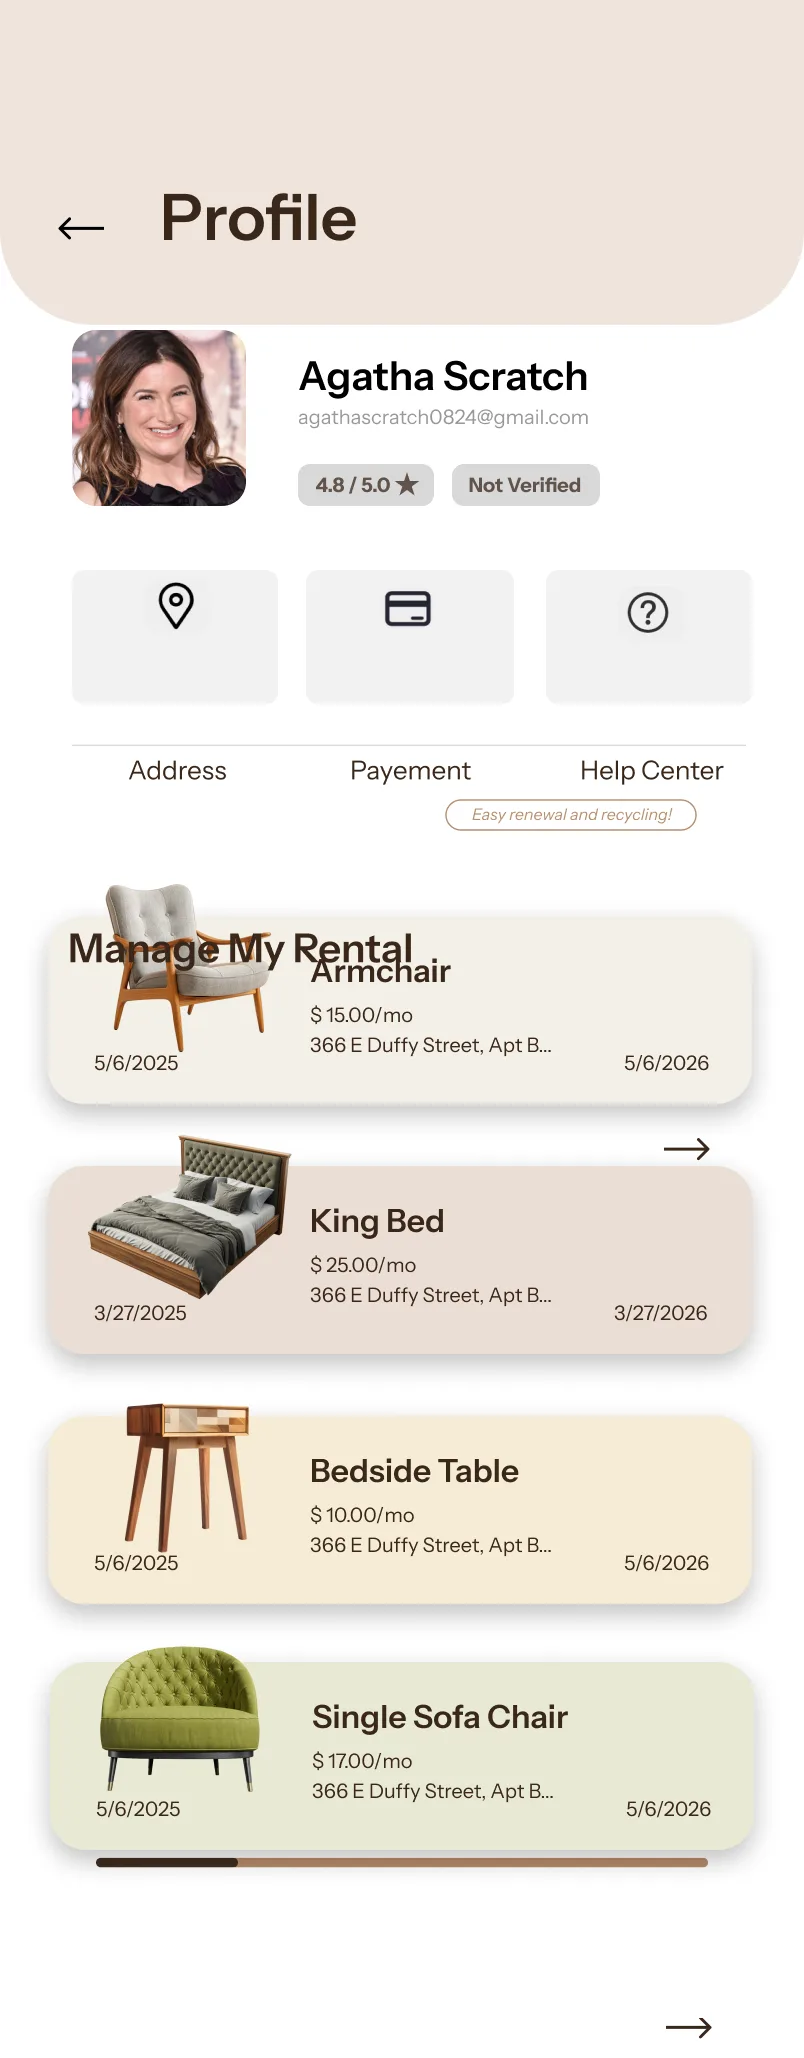
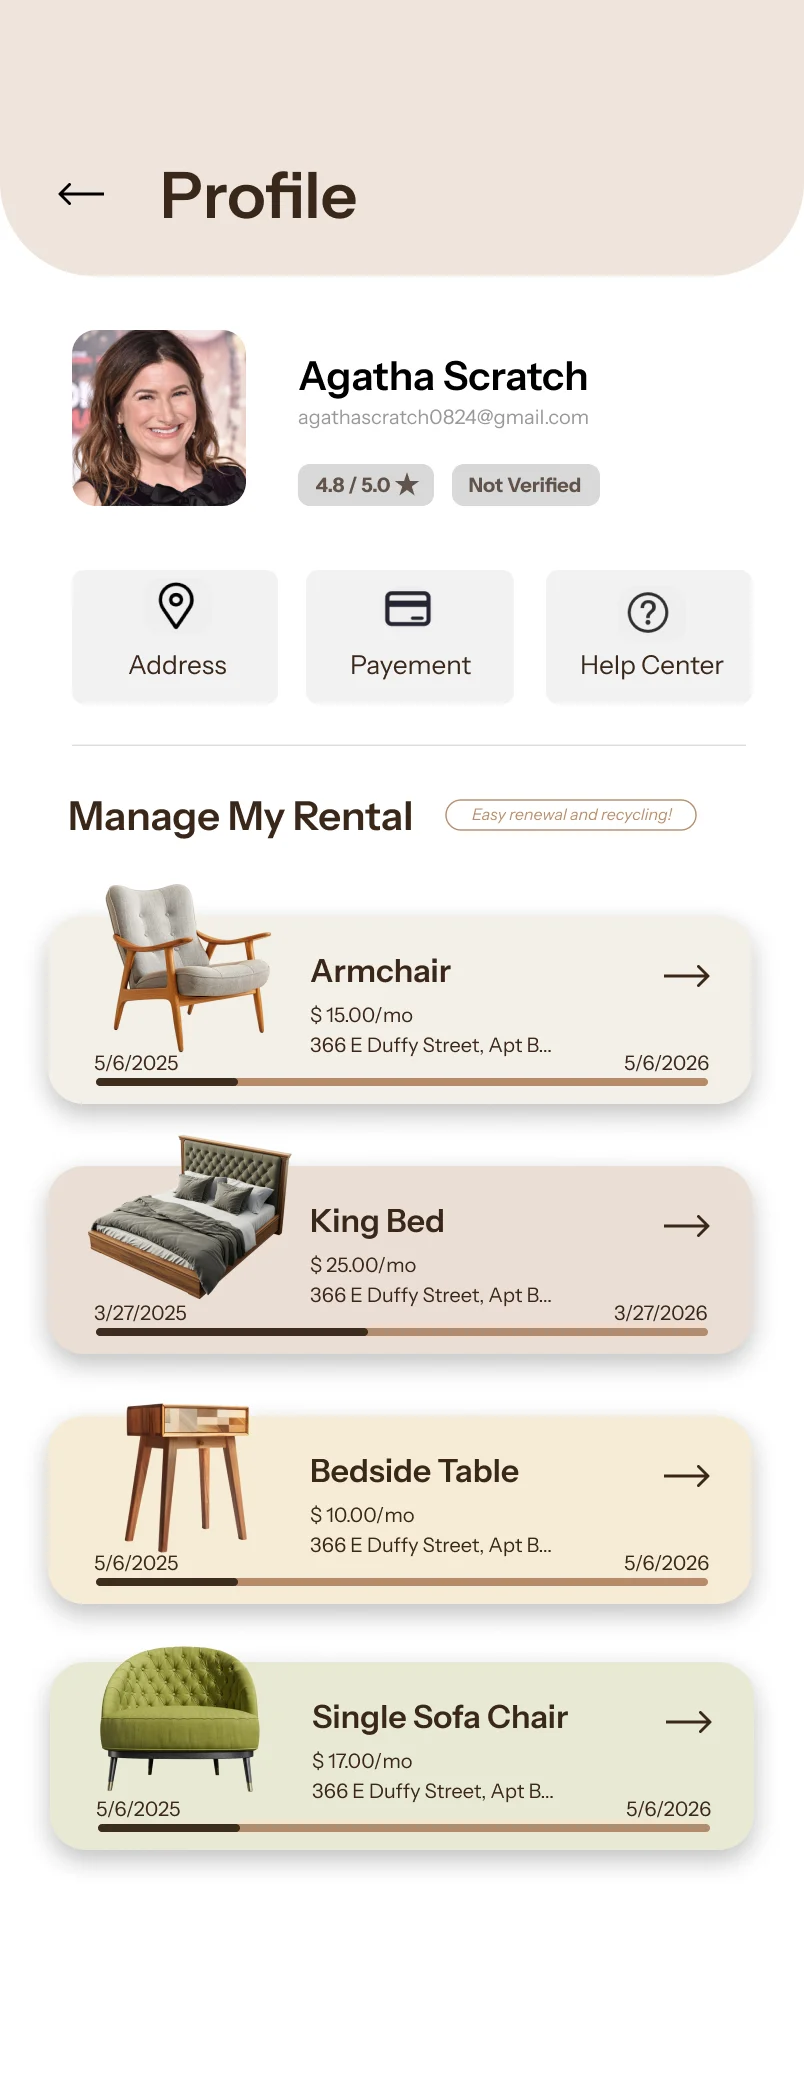
SwiftHome prototype polish: profile re-exported from Figma (fixes the heading overlapping the first rental, adds arrows and lease progress bars); motion pass: the page underneath dims as a new one slides over, list rows and product details rise in staggered, exported screens settle in, product hero 

diff --git a/assets/projects/swifthome/app/index.html b/assets/projects/swifthome/app/index.html
@@ -19,6 +19,11 @@
   .scr { position: absolute; inset: 0; overflow: hidden; background: #fff; pointer-events: none; visibility: hidden; transition: transform .42s cubic-bezier(.25,.8,.25,1), opacity .32s ease; }
   .scr.is-cur { pointer-events: auto; visibility: visible; z-index: 2; }
   .scr.is-prev { visibility: visible; z-index: 1; }
+  .scr::after { content: ""; position: absolute; inset: 0; background: rgba(28,18,10,.22); opacity: 0; pointer-events: none; transition: opacity .42s; z-index: 60; }
+  .scr.dim::after { opacity: 1; }
+  /* tactile press on everything tappable */
+  :is(.btn, .pill, .chip, .res, .cg, .cv-card, .totalbar, .save-bar, .thumb, .ar-btn, .back, .cv-card .go, .cbar-bag, .row-opt, .opt):active { scale: .965; }
+  .hs:active { background: rgba(255,255,255,.16); }
   .scr > .base { position: absolute; left: 0; top: 0; width: 402px; }
   .sc { position: absolute; overflow-x: hidden; overflow-y: auto; overscroll-behavior: contain; scrollbar-width: none; scroll-behavior: smooth; }
   .sc::-webkit-scrollbar, .pg::-webkit-scrollbar { display: none; }
@@ -186,6 +191,7 @@
   .item.gone { height: 0; margin-bottom: 0; opacity: 0; }
   .totalbar { position: absolute; left: 25px; top: 749px; width: 352px; height: 45px; border-radius: 10px; background: var(--bar); color: #fff; display: flex; align-items: center; z-index: 4; cursor: pointer; border: 0; }
   .totalbar b { flex: 1; text-align: center; font-size: 16px; font-weight: 600; }
+  .totalbar .tot { font-style: normal; font-variant-numeric: tabular-nums; }
   .totalbar i { width: 1px; height: 100%; background: rgba(255,255,255,.35); }
   .totalbar span { width: 72px; display: grid; place-items: center; }
   .item.cz .qty { top: auto; bottom: 14px; }
@@ -386,11 +392,11 @@ const SCREENS = {
     { x: 62, y: 808, w: 50, h: 46, tab: "explore" }, { x: 112, y: 808, w: 100, h: 46, tab: "cart" }, { x: 216, y: 808, w: 54, h: 46, tab: "favs" }, { x: 274, y: 808, w: 66, h: 46, tab: "profile" }] } },
   checkout: { base: S("checkout"), patch: "checkout", hs: [{ x: 14, y: 74, w: 54, h: 46, back: 1 }, { x: 288, y: 388, w: 74, h: 36, act: "payment" }, { x: 288, y: 628, w: 64, h: 30, act: "address" }, { x: 34, y: 478, w: 335, h: 148, act: "address" }, { x: 84, y: 796, w: 230, h: 45, act: "placeOrder" }] },
   success: { html: "success" },
-  profile: { sc: { x: 0, y: 0, w: 402, h: 874, img: S("profile_content"), ix: 0, iy: 0, iw: 402, ch: 1029, hs: [
+  profile: { sc: { x: 0, y: 0, w: 402, h: 874, img: S("profile_content"), ix: 0, iy: 0, iw: 402, ch: 1039, hs: [
     { x: 14, y: 74, w: 54, h: 46, back: 1, to: "explore" }, { x: 36, y: 285, w: 103, h: 90, act: "addressSheet" }, { x: 153, y: 285, w: 104, h: 90, act: "payment" }, { x: 273, y: 285, w: 103, h: 90, act: "help" },
-    { x: 24, y: 437, w: 352, h: 115, act: "rental", id: "armchair" }, { x: 24, y: 556, w: 352, h: 121, act: "rental", id: "bed" }, { x: 24, y: 694, w: 352, h: 108, act: "rental", id: "bedside" },
-    { x: 25, y: 806, w: 352, h: 119, go: "modify" }],
-    patches: ['<span style="position:absolute;left:300px;top:995px;width:80px;height:34px;background:#fff;pointer-events:none"></span>'] }, fx: NAVH("nav_profile") },
+    { x: 24, y: 458, w: 352, h: 94, act: "rental", id: "armchair" }, { x: 24, y: 582, w: 352, h: 96, act: "rental", id: "bed" }, { x: 24, y: 706, w: 352, h: 96, act: "rental", id: "bedside" },
+    { x: 24, y: 830, w: 352, h: 96, go: "modify" }],
+  }, fx: NAVH("nav_profile") },
   modify: { html: "modify" },
   favs: { html: "favs", fx: NAVH("nav_home") },
   search: { html: "search" },
@@ -462,10 +468,10 @@ const show = (id, how = "push") => {
   void next.offsetWidth; next.style.transition = ""; next.style.transform = ""; next.style.opacity = 1;
   if (how === "pop") next.style.zIndex = 1, prev && (prev.style.zIndex = 3);
   else next.style.zIndex = "", prev && (prev.style.zIndex = "");
-  if (prev) { prev.className = "scr is-prev"; prev.style.transform = from[1]; if (how === "fade") prev.style.opacity = 0;
+  if (prev) { prev.className = "scr is-prev" + (how === "push" || how === "up" ? " dim" : ""); prev.style.transform = from[1]; if (how === "fade") prev.style.opacity = 0;
     const p = prev; setTimeout(() => { if (els[cur] !== p) { p.className = "scr"; p.style.transform = ""; p.style.opacity = ""; p.style.zIndex = ""; } }, 450); }
   cur = id;
-  onShow(id, next);
+  onShow(id, next, how);
 };
 const act = (h, srcEl) => {
   if (h.back) { show(stack.pop() || h.to || "explore", "pop"); return; }
@@ -486,8 +492,36 @@ const zoomFrom = (src, to) => {
   if (bgFull) z.querySelector("img").animate([{ padding: "0" }, { padding: "65px 25px 14px 39px" }], { duration: 480, easing: "cubic-bezier(.25,.8,.25,1)", fill: "forwards" });
   setTimeout(() => { show(to, "zoom"); setTimeout(() => z.animate([{ opacity: 1 }, { opacity: 0 }], { duration: 220, fill: "forwards" }).onfinish = () => z.remove(), 120); }, 420);
 };
-const onShow = (id, el) => {
+const onShow = (id, el, how) => {
   if (id === "success") confetti(el);
+  if (how !== "none") enter(el);
+  bindParallax(el);
+};
+
+/* ---------- motion: content settles in after each move, heroes drift on scroll, totals count ---------- */
+let shownTotal = 0;
+const reduceMotion = matchMedia("(prefers-reduced-motion: reduce)").matches;
+const EASE = "cubic-bezier(.2,.8,.2,1)";
+const enter = (el) => {
+  if (reduceMotion) return;
+  // list rows and result cards rise in one after another
+  const rows = [...el.querySelectorAll(".items > .item, .res, .tl > div, .chips .chip, .pd-body > *, .pd-hero .thumb, .pd-hero .dot")].slice(0, 14);
+  rows.forEach((r, i) => r.animate([{ opacity: 0, transform: "translateY(16px)" }, { opacity: 1, transform: "none" }], { duration: 520, delay: 120 + i * 45, easing: EASE, fill: "backwards" }));
+  el.querySelectorAll(".pd-img, .md-hero").forEach((h) => h.animate([{ opacity: 0, transform: "scale(.9)" }, { opacity: 1, transform: "none" }], { duration: 700, delay: 60, easing: EASE, fill: "backwards" }));
+  // exported screens: the scrolling layer settles a beat after the header
+  if (!rows.length) el.querySelectorAll(":scope > .sc").forEach((sc) => sc.animate([{ opacity: 0, transform: "translateY(22px)" }, { opacity: 1, transform: "none" }], { duration: 560, delay: 90, easing: EASE, fill: "backwards" }));
+};
+const bindParallax = (el) => {
+  const pg = el.querySelector(".pg"), hero = el.querySelector(".pd-img, .setcar, .md-hero");
+  if (!pg || !hero || reduceMotion || pg._px) return; pg._px = 1;
+  pg.addEventListener("scroll", () => { const y = Math.min(pg.scrollTop, 400); hero.style.transformOrigin = "50% 0"; hero.style.transform = `scale(${1 - y / 1800})`; hero.style.opacity = 1 - y / 600; }, { passive: true });
+};
+const countTo = (node, to) => {
+  const from = parseFloat((node.dataset.v || node.textContent).replace(/[^0-9.]/g, "")) || 0; node.dataset.v = to;
+  if (reduceMotion || from === to) { node.textContent = money(to); return; }
+  const t0 = performance.now(), d = 500;
+  const step = (t) => { const k = Math.min(1, (t - t0) / d), e = 1 - Math.pow(1 - k, 3); node.textContent = money(from + (to - from) * e); if (k < 1) requestAnimationFrame(step); };
+  requestAnimationFrame(step);
 };
 
 /* ---------- tabs on the category list (redrawn so they can switch) ---------- */
@@ -566,7 +600,7 @@ const PAGES = {
       <div class="meta"><b>${it.name}</b>Color: ${c.color}<br>Size: ${c.size}<br>Lease term: ${c.lease} mo<div class="pr">${money(unitPrice(c))}/mo</div></div>
       <div class="qty"><button data-q="-1" data-i="${i}" aria-label="Less">−</button><b>${c.qty}</b><button data-q="1" data-i="${i}" aria-label="More">+</button></div>
       <button class="del" data-del="${i}">Remove</button></div>`; }).join("") : `<div class="empty"><svg width="60" height="56" viewBox="0 0 26 24" fill="none"><path d="M2 3h3l2.6 12h12.6L23 7H8" stroke="#c9bdb2" stroke-width="1.4" stroke-linejoin="round"/><circle cx="9.5" cy="20" r="1.4" fill="#c9bdb2"/><circle cx="18.5" cy="20" r="1.4" fill="#c9bdb2"/></svg>Your cart is empty.<br>Rent a piece and it shows up here.<button class="btn" data-tab="explore" style="margin-top:22px">Explore furniture</button></div>`}</div></div>
-    ${state.cart.length ? `<button class="totalbar" data-go="checkout"><b>Total: ${money(total())}</b><i></i><span>${ICON.cartok}</span></button>` : ""}`,
+    ${state.cart.length ? `<button class="totalbar" data-go="checkout"><b>Total: <em class="tot" data-v="${shownTotal}">${money(shownTotal)}</em></b><i></i><span>${ICON.cartok}</span></button>` : ""}`,
   success: () => `<div class="pg ok"><svg class="ok-ring" viewBox="0 0 120 120" fill="none"><circle cx="60" cy="60" r="54" stroke="#3f2c1f" stroke-width="4"/><path d="M38 61l15 15 30-32" stroke="#3f2c1f" stroke-width="5" stroke-linecap="round" stroke-linejoin="round"/></svg>
     <h2>Order placed</h2><p class="sub">${money(total())} · ${count()} item${count() === 1 ? "" : "s"} on a 12-month lease</p>
     <div class="tl">${[["Order confirmed", "Just now", 1], ["Preparing your pieces", "Cleaned, checked and packed", 0], ["Out for delivery", "Jun 2, 2025", 0], ["Delivered and assembled", "Jun 3, 2025 · we take the boxes", 0]].map(([t, s, d], i) => `<div class="${d ? "done" : ""}" style="animation-delay:${1.2 + i * .12}s">${t}<small>${s}</small></div>`).join("")}</div>
@@ -610,6 +644,7 @@ const bindPage = (w, id) => {
   w.querySelectorAll("[data-open]").forEach((b) => b.addEventListener("click", (e) => { e.stopPropagation(); openItem(b.dataset.open, b); }));
   w.querySelectorAll("[data-rent]").forEach((r) => bindRent(r, id));
   if (id === "product") bindProduct(w);
+  if (id === "cart") { const t = w.querySelector(".tot"); if (t) countTo(t, total()); shownTotal = total(); }
   if (id === "set") bindSetCar(w);
   if (id === "cover") bindCover(w);
   if (id === "customize") bindCustomize(w);

diff --git a/projects/swifthome.html b/projects/swifthome.html
@@ -299,7 +299,7 @@
       <div class="wrap ff-try">
         <div class="fin-demo ff-demo sh-demo">
           <div class="ff-phone__col">
-            <div class="ff-phone sh-phone" data-proto-w="402"><iframe data-proto-frame src="../assets/projects/swifthome/app/?v=20261025j" title="SwiftHome prototype" loading="lazy"></iframe></div>
+            <div class="ff-phone sh-phone" data-proto-w="402"><iframe data-proto-frame src="../assets/projects/swifthome/app/?v=20261025k" title="SwiftHome prototype" loading="lazy"></iframe></div>
             <button class="ff-restart" data-proto-restart>Restart</button>
           </div>
           <aside class="fin-guide" data-proto-guide aria-live="polite">
